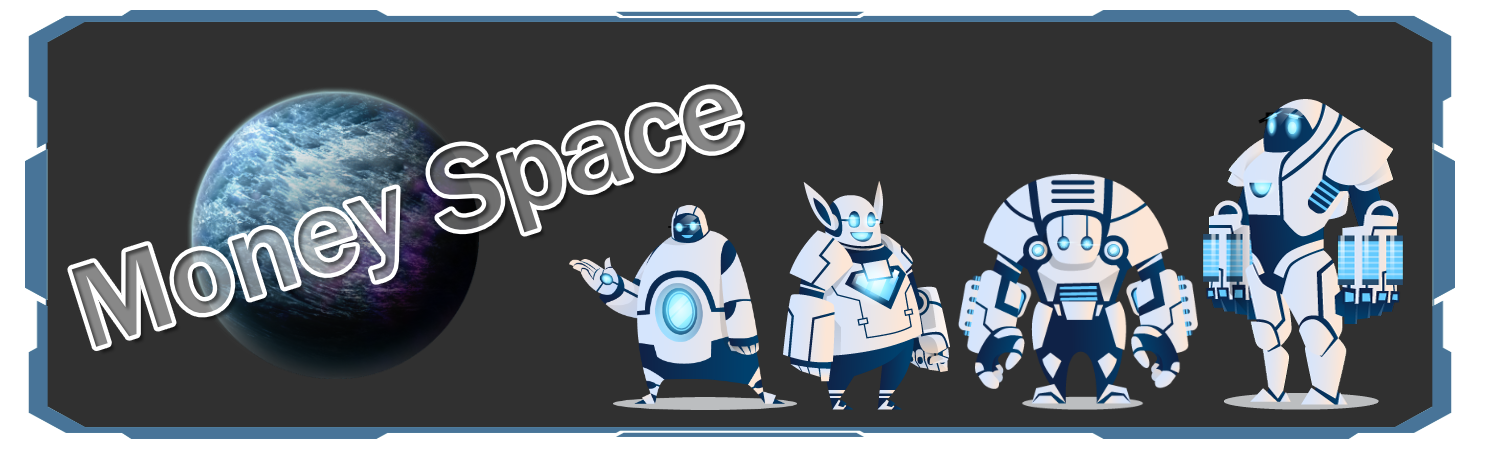
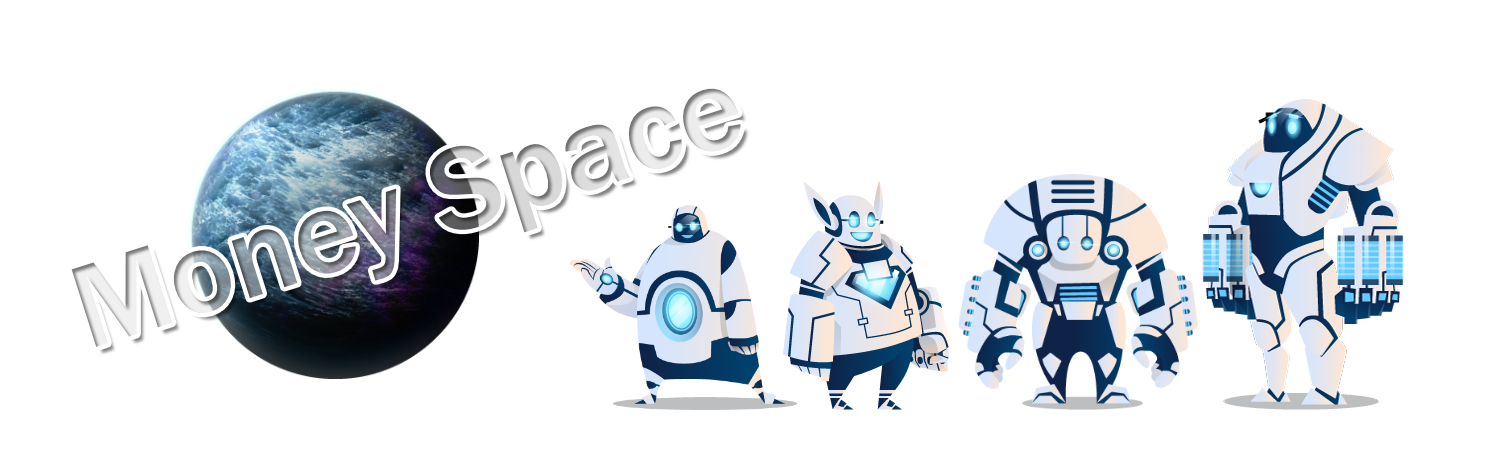
graphic fix

diff --git a/public/css/style.css b/public/css/style.css
@@ -183,7 +183,7 @@ body, html {
 
 .sidebartop {
     margin-top:  -55px;
-    width: 80%;
+    width: 240px;
     margin-left: auto;
     margin-right:auto;
     height: 80px;
@@ -205,8 +205,8 @@ body, html {
 }
 
 .bodytop {
-    margin-bottom: -66px;
-    width: 200px;
+    margin-bottom: -55px;
+    width: 240px;
     margin-left: auto;
     margin-right:auto;
     height: 80px;
@@ -226,7 +226,7 @@ body, html {
 }
 
 .bodytopimg h4 {
-    padding-top: 50px;
+    padding-top: 60px;
 }
 
 
@@ -241,13 +241,12 @@ body {
     background-image: url("/imgs/bodyhead.png");
     background-repeat: no-repeat;
     background-position: center;
-    background-size: 100% 100%;
+    background-size: 100% 140px;
     margin: 0 auto;
-    height: 230px;
+    height: 140px;
     padding-left: 50px;
     padding-right: 50px;
-    padding-top: 40px;
-    padding-bottom: 5px;
+
 }
 
 
@@ -266,8 +265,8 @@ body {
     background-image: url("/imgs/bodybottom.png");
     background-repeat: no-repeat;
     background-position: center;
-    background-size: 100% 100%;
-    height: 230px;
+    background-size: 100% 140px;
+    height: 140px;
     padding-left: 50px;
     padding-right: 50px;
     padding-bottom: 20px;

diff --git a/resources/views/exchange.blade.php b/resources/views/exchange.blade.php
@@ -12,14 +12,14 @@
 
         <div class="bodyimg">
 
-            <div class="text" style="margin-top: -120px;">
+            <div class="text" style="margin-top: -60px;">
 
                 <p>Ve směnárně si můžete pro nákup koupit stříbro pro výběr stříbra. Při výměně stříbra dostanete na účet 20% na nákup.</p>
 
                 <p><b>Výměna je možná pouze v jednom směru</b></p>
                 <form class="form-inline">
                 <p>Dáváte stříbro pro stažení (min. 1000]:	<input type="number" value="1000" class="col-md-3 form-control"> </p>
-                <p>Získejte stříbro pro nákupy [+ 20%]:	<input type="number" value="1200" class="col-md-3 form-control"> </p>
+                <p>Získejte stříbro pro nákupy [+ 20%]::	<input type="number" value="1200" class="col-md-3 form-control"> </p>
                 </form>
                 <div class="text-center">
                     <button class="btn btn-primary">Výměna</button>

diff --git a/resources/views/welcome.blade.php b/resources/views/welcome.blade.php
@@ -13,7 +13,7 @@
             </h4>
         </div>
         <div class="bodyimg">
-            <div class="text" style="margin-top: -60px;">
+            <div class="text" style=";">
                 <p>Lorem ipsum dolor sit amet, consectetur adipiscing elit, sed do eiusmod tempor incididunt ut labore et dolore magna aliqua. Ut enim ad minim veniam, quis nostrud exercitation ullamco laboris nisi ut aliquip ex ea commodo consequat. Duis aute irure dolor in reprehenderit in voluptate velit esse cillum dolore eu fugiat nulla pariatur. Excepteur sint occaecat cupidatat non proident, sunt in culpa qui officia deserunt mollit anim id est laborum.</p>
                 <ul>
                     <li>1) Kupte si roboty , budou vám těžit stříbro.</li>

diff --git a/resources/views/setting.blade.php b/resources/views/setting.blade.php
@@ -12,7 +12,7 @@
 
             <div class="bodyimg">
 
-                <div class="text" style="margin-top: -120px;">
+                <div class="text" style="margin-top: -60px;">
                 <p>Lorem ipsum dolor sit amet, consectetur adipiscing elit, sed do eiusmod tempor incididunt ut labore et dolore magna aliqua. Ut enim ad minim veniam, quis nostrud exercitation ullamco laboris nisi ut aliquip ex ea commodo consequat. Duis aute irure dolor in reprehenderit in voluptate velit esse cillum dolore eu fugiat nulla pariatur. Excepteur sint occaecat cupidatat non proident, sunt in culpa qui officia deserunt mollit anim id est laborum.</p>
                 <form>
                     <div class="form-group row">

diff --git a/resources/views/buyrobots.blade.php b/resources/views/buyrobots.blade.php
@@ -12,7 +12,7 @@
 
         <div class="bodyimg">
 
-            <div class="text" style="margin-top: -120px;">
+            <div class="text" style="margin-top: -60px;">
 
                 <p>V tomto obchodě si můžete koupit různé ptáky. Každý pták přináší zvláštní vejce, které pak mohou být prodávány na trhu a vyměňovány za skutečné peníze. Každý pták dává jiný počet vajec, čím dražší je, tím víc to přináší. Můžete si koupit neomezený počet ptáků.</p>
 

diff --git a/resources/views/store.blade.php b/resources/views/store.blade.php
@@ -12,7 +12,7 @@
 
         <div class="bodyimg">
 
-            <div class="text" style="margin-top: -120px;">
+            <div class="text" style="margin-top: -60px;">
 
                 <p>V tomto obchodě si můžete koupit různé ptáky. Každý pták přináší zvláštní vejce, které pak mohou být prodávány na trhu a vyměňovány za skutečné peníze. Každý pták dává jiný počet vajec, čím dražší je, tím víc to přináší. Můžete si koupit neomezený počet ptáků.</p>
 

diff --git a/resources/views/market.blade.php b/resources/views/market.blade.php
@@ -12,7 +12,7 @@
 
         <div class="bodyimg">
 
-            <div class="text" style="margin-top: -120px;">
+            <div class="text" style="margin-top: -60px;">
 
                 <p>Maloobchodní prodejna vám umožní prodávat všechny vaše vejce za stříbro, které lze vyměnit za skutečné peníze. Stříbro získané z prodeje se rozděluje mezi dva účty (účet pro nákupy a faktura za stažení) v poměru: 70% na účtu u nákupů a 30% na stažen</p>
 

diff --git a/resources/views/partners.blade.php b/resources/views/partners.blade.php
@@ -12,7 +12,7 @@
 
         <div class="bodyimg">
 
-            <div class="text" style="margin-top: -120px;">
+            <div class="text" style="margin-top: -60px;">
 
                 <p>Každé doplnění zůstatku obdržíte od osoby, kterou jste pozvali, stříbrnou . Příjem je neomezený. Dokonce i několik hostů vám může přinést více než 100 000 stříbra.</p>
 

diff --git a/resources/views/profile.blade.php b/resources/views/profile.blade.php
@@ -12,7 +12,7 @@
 
             <div class="bodyimg">
 
-                <table class="table table-striped" style="margin-top: -120px; width: 100%">
+                <table class="table table-striped" style="margin-top: -60px; width: 100%">
 
                     <tbody>
                     <tr>
